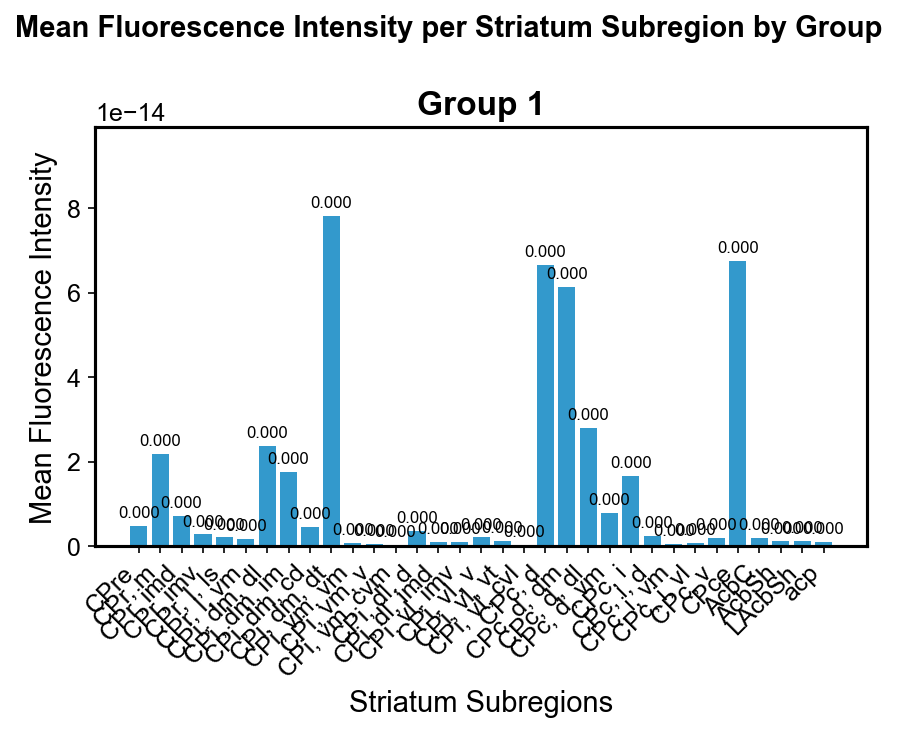
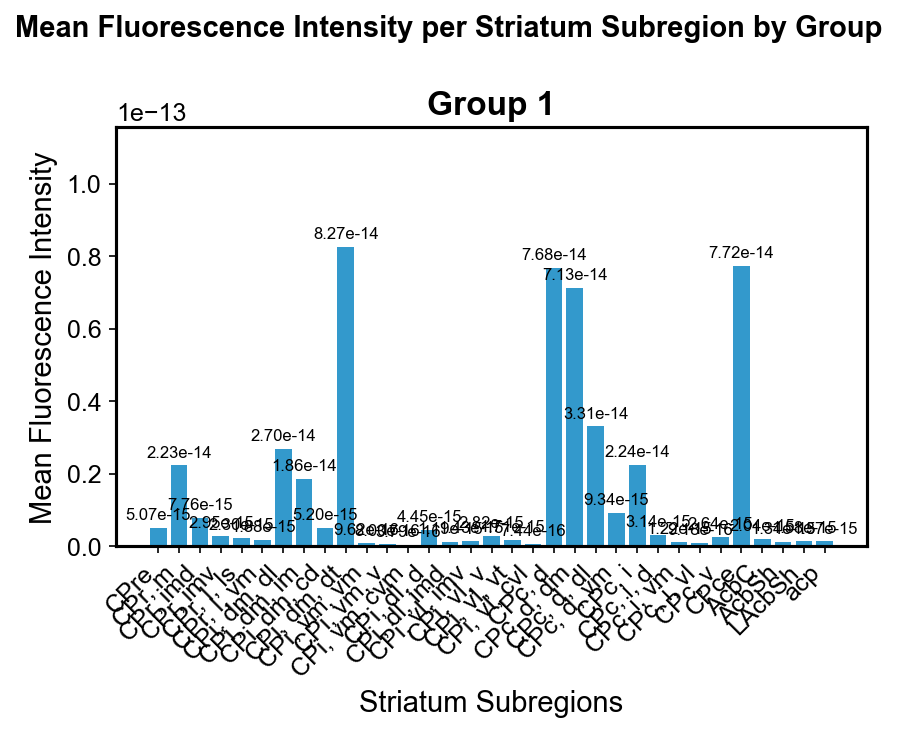
figures

Changed region(s): [[0.0624, 0.1201, 0.9677, 0.9304], [0.3746, 0.9304, 0.6867, 0.9905], [0.4682, 0.1201, 0.6243, 0.1801]]

diff --git a/bsv/analyze_cp_subregions.py b/bsv/analyze_cp_subregions.py
@@ -229,7 +229,8 @@ def analyze_cp_subregions(projection_matrix_array, projection_matrix_coordinates
                 ax.set_xticklabels(names, rotation=45, ha='right')
                 for j, v in enumerate(vals):
                     if v > 0:
-                        ax.text(j, v + y_max * 0.02, f'{v:.3f}', ha='center', fontsize=8)
+                        label = f'{v:.3f}' if v >= 0.001 else f'{v:.2e}'
+                        ax.text(j, v + y_max * 0.02, label, ha='center', fontsize=8)
                 ax.set_ylim(0, y_max)
 
             # Title
